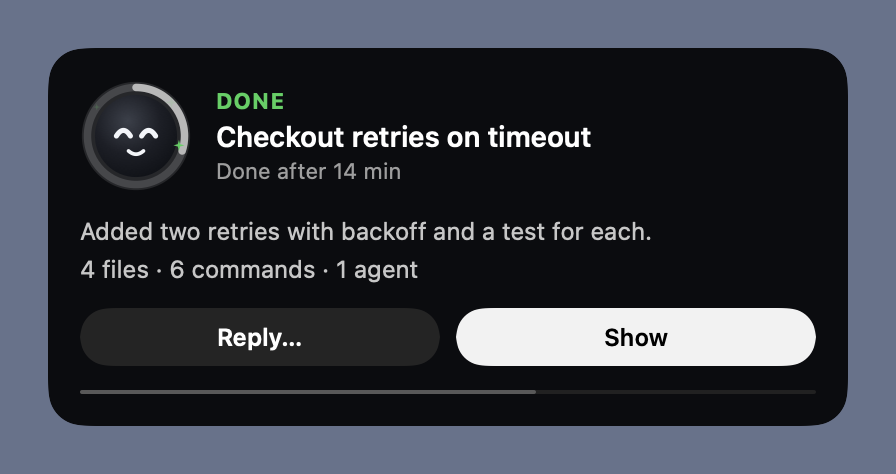
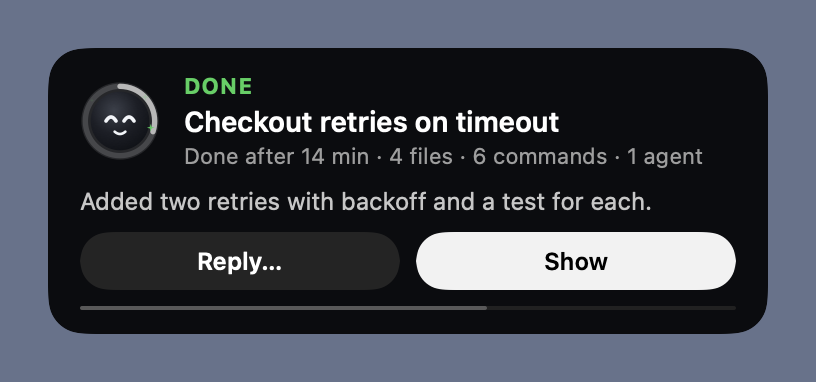
feat: smaller notch alerts, and question cards that wait for an answer
Alerts are about 11-20% shorter and 40 pt narrower: Dot at 40 pt, tighter
padding and gaps, the card at 360 pt, and a Done alert's stats on the same
line as its time with the reply capped at two lines. Text and button sizes
are unchanged. Buttons stay on one row when every label fits its share;
a question with long options goes two to a row so no answer is cut off.

Fix: questions and plans were dropped about 3 s after they arrived. The
check that clears prompts answered in the terminal treated them as answered,
because the session doesn't read as waiting while the PreToolUse hook holds
them. It now only applies to permission prompts.

Changed region(s): [[0.0306, 0.0864, 0.9498, 0.9215], [0.0919, 0.1728, 0.8578, 0.4319]]

diff --git a/Sources/AgentDeck/Peek.swift b/Sources/AgentDeck/Peek.swift
@@ -97,7 +97,7 @@ final class PeekState {
 
 @MainActor
 enum Peek {
-    static let width: CGFloat = 400
+    static let width: CGFloat = 360
     private static let margin: CGFloat = 24   // room for the shadow
     private static let state = PeekState()
     private static var panel: PeekPanel?
@@ -322,9 +322,9 @@ private struct PeekView: View {
 
     @ViewBuilder private func content(_ a: PeekAlert) -> some View {
         let color = Dot.moodColor(a.kind.mood)
-        VStack(alignment: .leading, spacing: 12) {
+        VStack(alignment: .leading, spacing: 8) {
             HStack(alignment: .center, spacing: 12) {
-                Dot(mood: a.kind.mood, percent: state.percent, size: 56, celebrate: a.celebrate)
+                Dot(mood: a.kind.mood, percent: state.percent, size: 40, celebrate: a.celebrate)
                 VStack(alignment: .leading, spacing: 2) {
                     Text((a.tag ?? a.kind.word).uppercased()).font(PeekFont.eyebrow).tracking(0.6).foregroundStyle(color)
                     Text(a.title).font(PeekFont.title).foregroundStyle(.white).lineLimit(3)
@@ -345,21 +345,27 @@ private struct PeekView: View {
             }
             if !a.lines.isEmpty {
                 VStack(alignment: .leading, spacing: 4) {
-                    ForEach(a.lines, id: \.self) { Text($0).font(PeekFont.line).foregroundStyle(Color(white: 0.78)) }
+                    ForEach(a.lines, id: \.self) { Text($0).font(PeekFont.line).foregroundStyle(Color(white: 0.78)).lineLimit(2) }
                 }
             }
             if let done = state.doneText {
                 Label(done, systemImage: "checkmark.circle.fill").font(PeekFont.line).foregroundStyle(Color(white: 0.7))
                     .symbolRenderingMode(.multicolor)
             } else if !a.actions.isEmpty {
-                HStack(spacing: 8) {
-                    ForEach(Array(a.actions.enumerated()), id: \.offset) { _, action in
-                        Button(action.title) {
-                            // The confirmation shows first: answering dismisses this alert, unless it's confirming.
-                            Peek.finish(action.done)
-                            action.run()
+                let perRow = Self.buttonsPerRow(a.actions)
+                VStack(spacing: 8) {
+                    ForEach(Array(stride(from: 0, to: a.actions.count, by: perRow)), id: \.self) { start in
+                        HStack(spacing: 8) {
+                            ForEach(a.actions[start..<min(start + perRow, a.actions.count)].indices, id: \.self) { i in
+                                let action = a.actions[i]
+                                Button(action.title) {
+                                    // The confirmation shows first: answering dismisses this alert, unless it's confirming.
+                                    Peek.finish(action.done)
+                                    action.run()
+                                }
+                                .buttonStyle(PeekButton(style: action.style))
+                            }
                         }
-                        .buttonStyle(PeekButton(style: action.style))
                     }
                 }
             }
@@ -371,8 +377,19 @@ private struct PeekView: View {
                 .background(Capsule().fill(Color(white: 0.13)))
             }
         }
-        .padding(16)
+        .padding(.horizontal, 16).padding(.vertical, 12)
         .padding(.top, topInset)
+    }
+
+    /// Buttons share one row equally. When the widest label wouldn't fit its share (a question with long
+    /// options), they go two to a row instead, so no answer is cut off.
+    private static func buttonsPerRow(_ actions: [PeekAlert.Action]) -> Int {
+        let n = actions.count
+        guard n > 2 else { return max(n, 1) }
+        let share = (Peek.width - 32 - 8 * CGFloat(n - 1)) / CGFloat(n)
+        let font = NSFont.systemFont(ofSize: 12, weight: .semibold)   // PeekFont.button
+        let widest = actions.map { ($0.title as NSString).size(withAttributes: [.font: font]).width }.max() ?? 0
+        return widest + 8 <= share ? n : 2
     }
 
     private var topInset: CGFloat {

diff --git a/Sources/AgentDeck/AppModel.swift b/Sources/AgentDeck/AppModel.swift
@@ -958,10 +958,11 @@ final class AppModel {
 
     /// Claude Code doesn't stop the hook when you answer in the terminal. Once the session's pid file
     /// no longer says it's waiting, the prompt is gone. The 3 s grace covers a pid file that hasn't
-    /// caught up with a brand-new prompt yet.
+    /// caught up with a brand-new prompt yet. Questions and plans are held back by the PreToolUse hook
+    /// before the terminal shows them, so the session never reads as waiting; their hook times out instead.
     private func dropAnsweredElsewhere() {
         let waiting = Dictionary(live.map { ($0.sessionId, $0.state == .blocked) }, uniquingKeysWith: { a, _ in a })
-        for r in approvals where waiting[r.sessionId] == false && Date().timeIntervalSince(r.receivedAt) > 3 {
+        for r in approvals where r.kind == .permission && waiting[r.sessionId] == false && Date().timeIntervalSince(r.receivedAt) > 3 {
             answer(r.id, .terminal)
         }
     }

diff --git a/Sources/AgentDeck/Notifier.swift b/Sources/AgentDeck/Notifier.swift
@@ -107,7 +107,8 @@ final class Notifier: NSObject, UNUserNotificationCenterDelegate {
                 Task { [weak self] in
                     let line = await self?.lastReply?(sid)
                     let lines = [line, did].compactMap { $0 }
-                    self?.post(PeekAlert(id: "done-\(sid)", kind: .done, title: title, meta: took, lines: lines, actions: actions, celebrate: big),
+                    self?.post(PeekAlert(id: "done-\(sid)", kind: .done, title: title, meta: ([took] + [did].compactMap { $0 }).joined(separator: " · "),
+                                         lines: [line].compactMap { $0 }, actions: actions, celebrate: big),
                                title: "\(title) is done",
                                body: ([took.replacingOccurrences(of: "Done after", with: "Took")] + lines).joined(separator: " · "), sessionId: sid)
                 }
